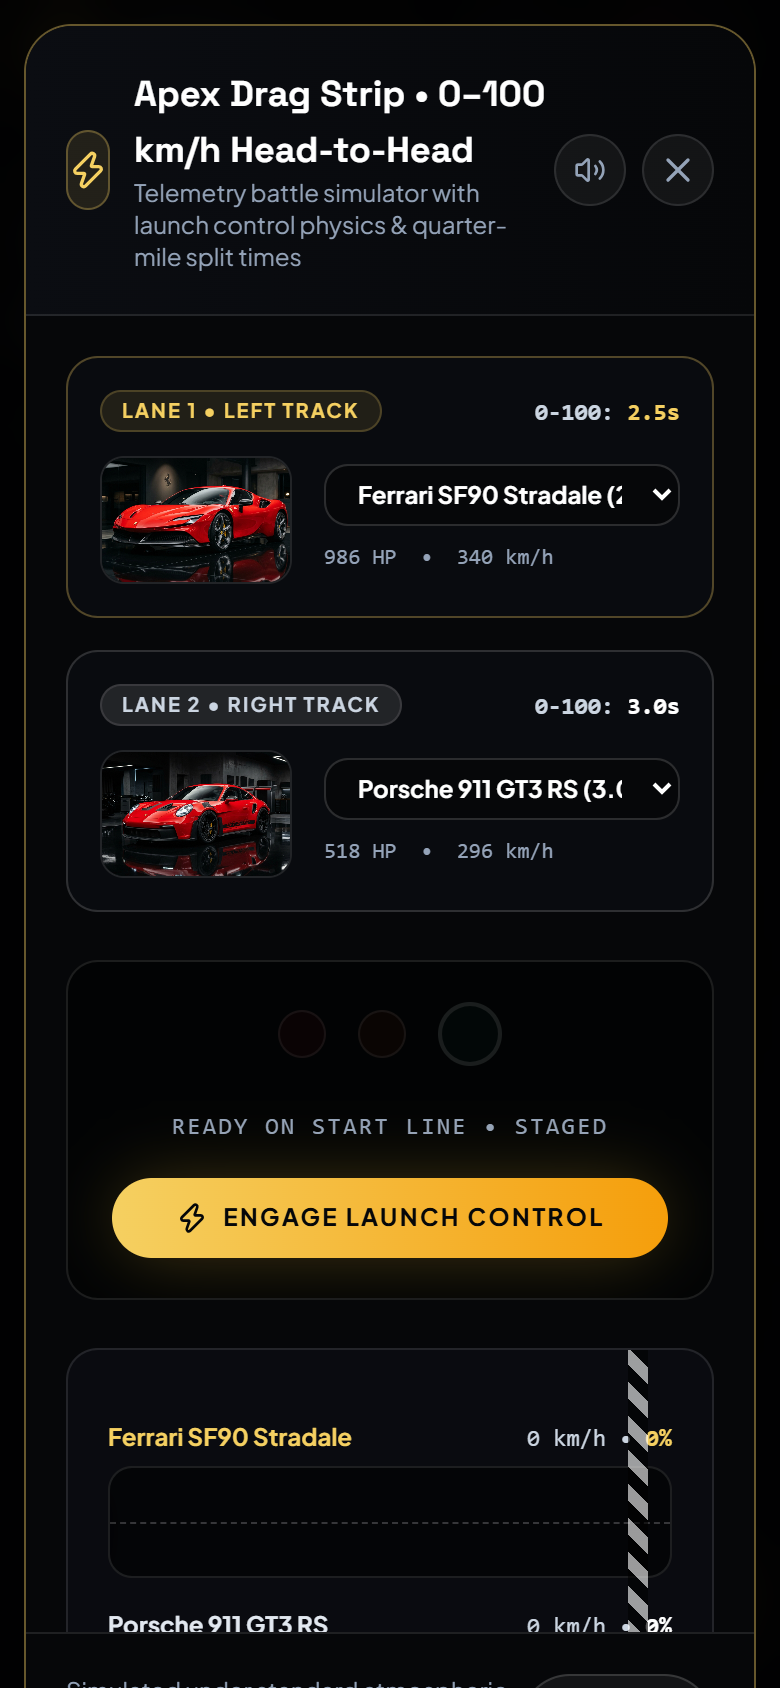
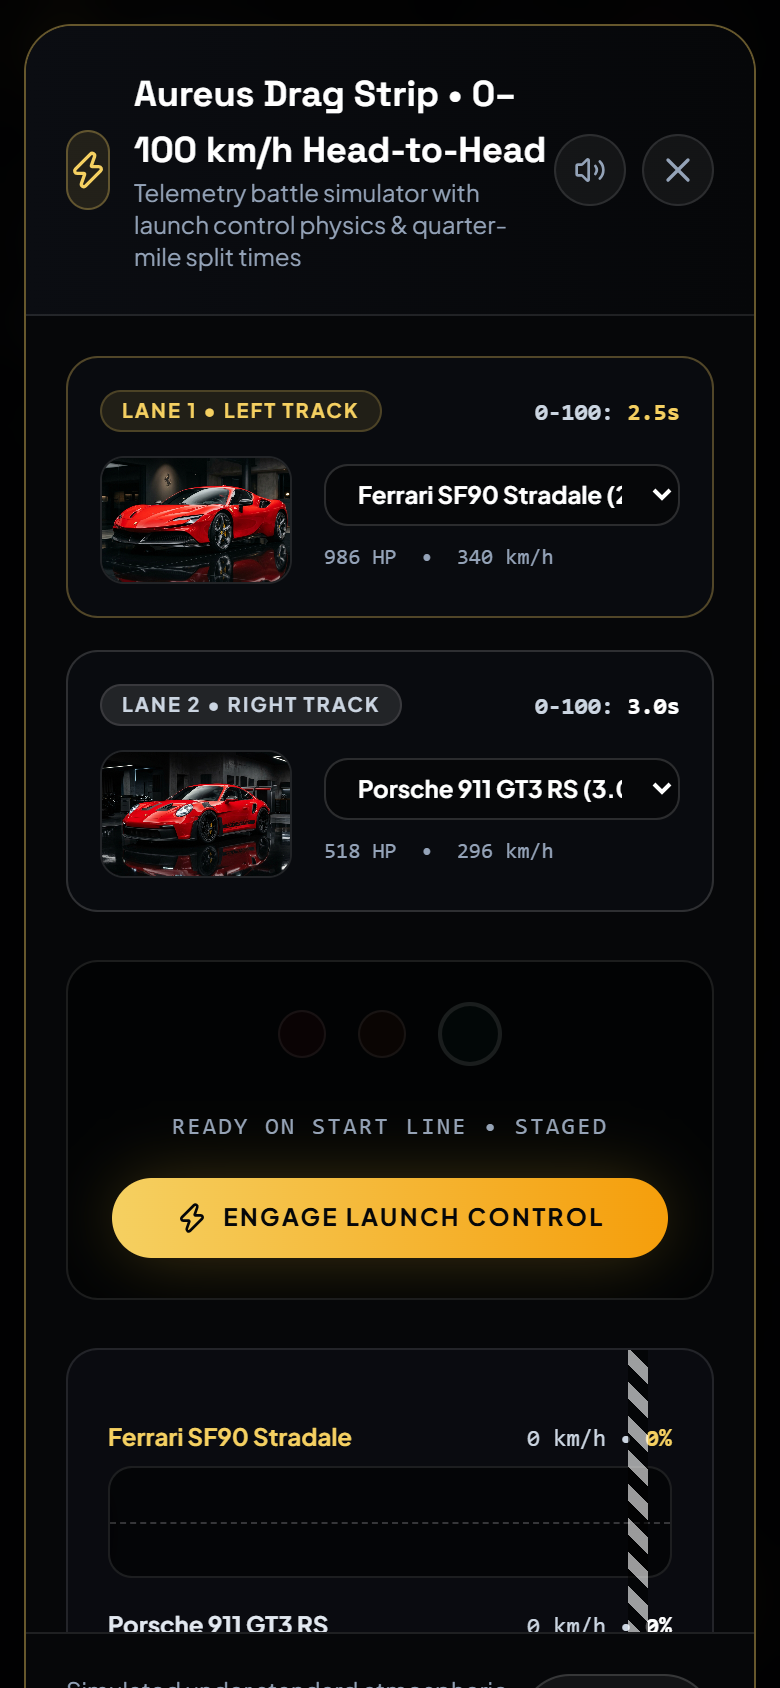
fix(screenshots): resolve duplicate modal captures across desktop, tablet, and mobile

Changed region(s): [[0.1538, 0.0308, 0.7077, 0.1232]]

diff --git a/src/components/modals/FinanceCalculatorModal.jsx b/src/components/modals/FinanceCalculatorModal.jsx
@@ -1,4 +1,4 @@
-import React, { useState, useMemo } from 'react';
+import React, { useState, useEffect, useMemo } from 'react';
 import { motion, AnimatePresence } from 'framer-motion';
 import { X, Calculator, ShieldCheck, Building2, Check, ArrowRight } from 'lucide-react';
 import { CARS_DATA } from '../../data/cars';
@@ -21,6 +21,16 @@ export default function FinanceCalculatorModal({ isOpen, onClose, initialCar = n
   const [downPaymentPercent, setDownPaymentPercent] = useState(25);
   const [loanTenureMonths, setLoanTenureMonths] = useState(60);
   const [interestRate, setInterestRate] = useState(8.65);
+
+  useEffect(() => {
+    const handleKeyDown = (e) => {
+      if (e.key === 'Escape') onClose();
+    };
+    if (isOpen) {
+      window.addEventListener('keydown', handleKeyDown);
+    }
+    return () => window.removeEventListener('keydown', handleKeyDown);
+  }, [isOpen, onClose]);
 
   const car = useMemo(() => {
     return CARS_DATA.find(c => c.id === selectedCarId) || CARS_DATA[0];
@@ -213,7 +223,7 @@ export default function FinanceCalculatorModal({ isOpen, onClose, initialCar = n
                 <div className="p-4 rounded-xl bg-gold-400/5 border border-gold-400/20 text-xs text-slate-300 leading-relaxed flex items-start gap-3">
                   <ShieldCheck className="w-5 h-5 text-gold-400 flex-shrink-0 mt-0.5" />
                   <p>
-                    All allocations cleared directly via Apex Atelier India under complete factory warranty, 3-year scheduled maintenance package, and Pan-India enclosed hydraulic transport direct to your residence.
+                    All allocations cleared directly via Aureus Veloce India under complete factory warranty, 3-year scheduled maintenance package, and Pan-India enclosed hydraulic transport direct to your residence.
                   </p>
                 </div>
               </motion.div>

diff --git a/src/components/modals/DragRaceModal.jsx b/src/components/modals/DragRaceModal.jsx
@@ -62,10 +62,19 @@ export default function DragRaceModal({ isOpen, onClose, initialCar1 = null }) {
   };
 
   useEffect(() => {
+    const handleKeyDown = (e) => {
+      if (e.key === 'Escape') {
+        handleClose();
+      }
+    };
+    if (isOpen) {
+      window.addEventListener('keydown', handleKeyDown);
+    }
     return () => {
+      window.removeEventListener('keydown', handleKeyDown);
       stopAnimationAndAudio();
     };
-  }, []);
+  }, [isOpen]);
 
   const startRace = () => {
     if (raceState !== 'idle') return;
@@ -159,7 +168,7 @@ export default function DragRaceModal({ isOpen, onClose, initialCar1 = null }) {
               </div>
               <div>
                 <h3 className="text-lg sm:text-xl font-display font-bold text-white flex items-center gap-2">
-                  Apex Drag Strip • 0–100 km/h Head-to-Head
+                  Aureus Drag Strip • 0–100 km/h Head-to-Head
                 </h3>
                 <p className="text-xs text-slate-400">
                   Telemetry battle simulator with launch control physics & quarter-mile split times
@@ -431,7 +440,7 @@ export default function DragRaceModal({ isOpen, onClose, initialCar1 = null }) {
               >
                 <div className="inline-flex items-center gap-1.5 text-gold-400 text-xs uppercase tracking-widest font-bold">
                   <Sparkles className="w-4 h-4" />
-                  <span>Apex Quarter-Mile Champion</span>
+                  <span>Aureus Quarter-Mile Champion</span>
                 </div>
                 <h4 className="text-xl font-display font-extrabold text-white">
                   {winner.name} wins by {(Math.abs(car1.accelerationNum - car2.accelerationNum)).toFixed(2)}s!

diff --git a/src/components/sections/CollectionGallery.jsx b/src/components/sections/CollectionGallery.jsx
@@ -146,6 +146,9 @@ export default function CollectionGallery({
         <div className="grid grid-cols-1 md:grid-cols-3 gap-4">
           {/* Drag Strip Card */}
           <div 
+            id="card-drag-strip"
+            role="button"
+            tabIndex={0}
             onClick={() => onOpenDragRace && onOpenDragRace(null)}
             className="p-4 sm:p-5 rounded-2xl bg-gradient-to-br from-luxury-900 to-luxury-950 border border-amber-500/30 hover:border-amber-400/70 transition-all duration-300 shadow-xl cursor-pointer group hover:scale-[1.02]"
           >
@@ -168,6 +171,9 @@ export default function CollectionGallery({
 
           {/* Sound Lounge Card */}
           <div 
+            id="card-exhaust-sound"
+            role="button"
+            tabIndex={0}
             onClick={() => onOpenRevBattle && onOpenRevBattle()}
             className="p-4 sm:p-5 rounded-2xl bg-gradient-to-br from-luxury-900 to-luxury-950 border border-orange-500/30 hover:border-orange-400/70 transition-all duration-300 shadow-xl cursor-pointer group hover:scale-[1.02]"
           >
@@ -190,6 +196,9 @@ export default function CollectionGallery({
 
           {/* EMI & Tax Desk Card */}
           <div 
+            id="card-finance-desk"
+            role="button"
+            tabIndex={0}
             onClick={() => onOpenFinance && onOpenFinance(null)}
             className="p-4 sm:p-5 rounded-2xl bg-gradient-to-br from-luxury-900 to-luxury-950 border border-emerald-500/30 hover:border-emerald-400/70 transition-all duration-300 shadow-xl cursor-pointer group hover:scale-[1.02]"
           >

diff --git a/src/App.jsx b/src/App.jsx
@@ -165,6 +165,40 @@ export default function App() {
     return () => window.removeEventListener('keydown', handleGlobalKeyDown);
   }, []);
 
+  // Global automation interface for bulletproof testing & screenshot capture
+  useEffect(() => {
+    window.__aureus = {
+      openDetails: (indexOrId = 0) => {
+        const car = typeof indexOrId === 'number' ? CARS_DATA[indexOrId] : (CARS_DATA.find(c => c.id === indexOrId) || CARS_DATA[0]);
+        setInspectedCar(car);
+      },
+      closeDetails: () => setInspectedCar(null),
+      openDragRace: () => setIsDragRaceOpen(true),
+      closeDragRace: () => setIsDragRaceOpen(false),
+      openRevBattle: () => setIsRevBattleOpen(true),
+      closeRevBattle: () => setIsRevBattleOpen(false),
+      openFinance: (indexOrId = 0) => {
+        const car = typeof indexOrId === 'number' ? CARS_DATA[indexOrId] : (CARS_DATA.find(c => c.id === indexOrId) || CARS_DATA[0]);
+        setFinanceCar(car);
+        setIsFinanceOpen(true);
+      },
+      closeFinance: () => setIsFinanceOpen(false),
+      closeAll: () => {
+        setInspectedCar(null);
+        setIsDragRaceOpen(false);
+        setIsRevBattleOpen(false);
+        setIsFinanceOpen(false);
+        setIsWishlistOpen(false);
+        setIsCompareOpen(false);
+        setIsBookingOpen(false);
+        setIsSearchOpen(false);
+      }
+    };
+    return () => {
+      delete window.__aureus;
+    };
+  }, []);
+
   // Micro-toast notifications
   const [toastMessage, setToastMessage] = useState(null);
 

diff --git a/src/components/sections/ContactSection.jsx b/src/components/sections/ContactSection.jsx
@@ -216,7 +216,7 @@ export default function ContactSection({ onShowToast }) {
                 <CheckCircle2 className="w-12 h-12 text-emerald-400 mx-auto" />
                 <h4 className="text-lg font-bold text-white">Discreet Inquiry Transmitted</h4>
                 <p className="text-xs text-slate-300 max-w-md mx-auto">
-                  Your communication has been registered. An Apex Senior Concierge partner will reach out within two hours via your specified confidential channel.
+                  Your communication has been registered. An Aureus Senior Concierge partner will reach out within two hours via your specified confidential channel.
                 </p>
                 <button
                   onClick={() => setIsSent(false)}
@@ -379,7 +379,7 @@ export default function ContactSection({ onShowToast }) {
 
             <div className="p-6 rounded-3xl bg-luxury-900/40 border border-white/10 text-center space-y-3">
               <span className="text-[10px] uppercase tracking-wider text-slate-400 font-medium">Direct Telephone Concierge</span>
-              <p className="text-xl font-display font-bold text-white tracking-wider">+1 (800) 890-APEX</p>
+              <p className="text-xl font-display font-bold text-white tracking-wider">+1 (800) 890-AUREUS</p>
               <p className="text-[10px] text-slate-500">24/7 International Dedicated Hotline</p>
             </div>
           </motion.div>

diff --git a/src/components/common/WhatsAppConcierge.jsx b/src/components/common/WhatsAppConcierge.jsx
@@ -9,7 +9,7 @@ export default function WhatsAppConcierge({ activeCar = null, onOpenBooking }) {
   const whatsappNumber = "919876543210";
   const carText = activeCar ? ` regarding the ${activeCar.name} (${activeCar.priceFormatted})` : "";
   const defaultMessage = encodeURIComponent(
-    `Hello Apex Atelier India, I am interested in inquiring${carText}. Please connect me with a Senior Advisory Partner for private allocation details.`
+    `Hello Aureus Veloce India, I am interested in inquiring${carText}. Please connect me with a Senior Advisory Partner for private allocation details.`
   );
   const whatsappUrl = `https://wa.me/${whatsappNumber}?text=${defaultMessage}`;
 
@@ -35,7 +35,7 @@ export default function WhatsAppConcierge({ activeCar = null, onOpenBooking }) {
                   <span className="absolute bottom-0 right-0 w-2.5 h-2.5 bg-emerald-400 rounded-full border-2 border-luxury-950" />
                 </div>
                 <div>
-                  <h4 className="text-sm font-bold text-white leading-none">Apex Private Concierge</h4>
+                  <h4 className="text-sm font-bold text-white leading-none">Aureus Private Concierge</h4>
                   <span className="text-[10px] text-emerald-400 font-medium">Senior Partner Online • 24/7 Escrow</span>
                 </div>
               </div>

diff --git a/src/components/layout/Footer.jsx b/src/components/layout/Footer.jsx
@@ -13,7 +13,7 @@ export default function Footer({ onSelectCategory, onShowToast }) {
     if (!newsletterEmail) return;
     setSubscribed(true);
     if (onShowToast) {
-      onShowToast(`Welcome to the Apex Private Circle, ${newsletterEmail}.`);
+      onShowToast(`Welcome to the Aureus Private Circle, ${newsletterEmail}.`);
     }
   };
 
@@ -36,7 +36,7 @@ export default function Footer({ onSelectCategory, onShowToast }) {
               Discreet Allocation Bulletins
             </span>
             <h3 className="text-xl sm:text-2xl font-display font-bold text-white">
-              Join the Apex Private Circle
+              Join the Aureus Private Circle
             </h3>
             <p className="text-slate-400 text-xs max-w-lg">
               Receive confidential alerts regarding unlisted hypercar allocations, off-market collector transactions, and invitation-only track events.

diff --git a/src/components/modals/RevBattleModal.jsx b/src/components/modals/RevBattleModal.jsx
@@ -97,13 +97,22 @@ export default function RevBattleModal({ isOpen, onClose }) {
   };
 
   useEffect(() => {
+    const handleKeyDown = (e) => {
+      if (e.key === 'Escape') {
+        handleClose();
+      }
+    };
+    if (isOpen) {
+      window.addEventListener('keydown', handleKeyDown);
+    }
     return () => {
+      window.removeEventListener('keydown', handleKeyDown);
       stopAudio();
       if (rpmIntervalRef.current) {
         clearInterval(rpmIntervalRef.current);
       }
     };
-  }, []);
+  }, [isOpen]);
 
   // Handle pedal press & hold
   useEffect(() => {
